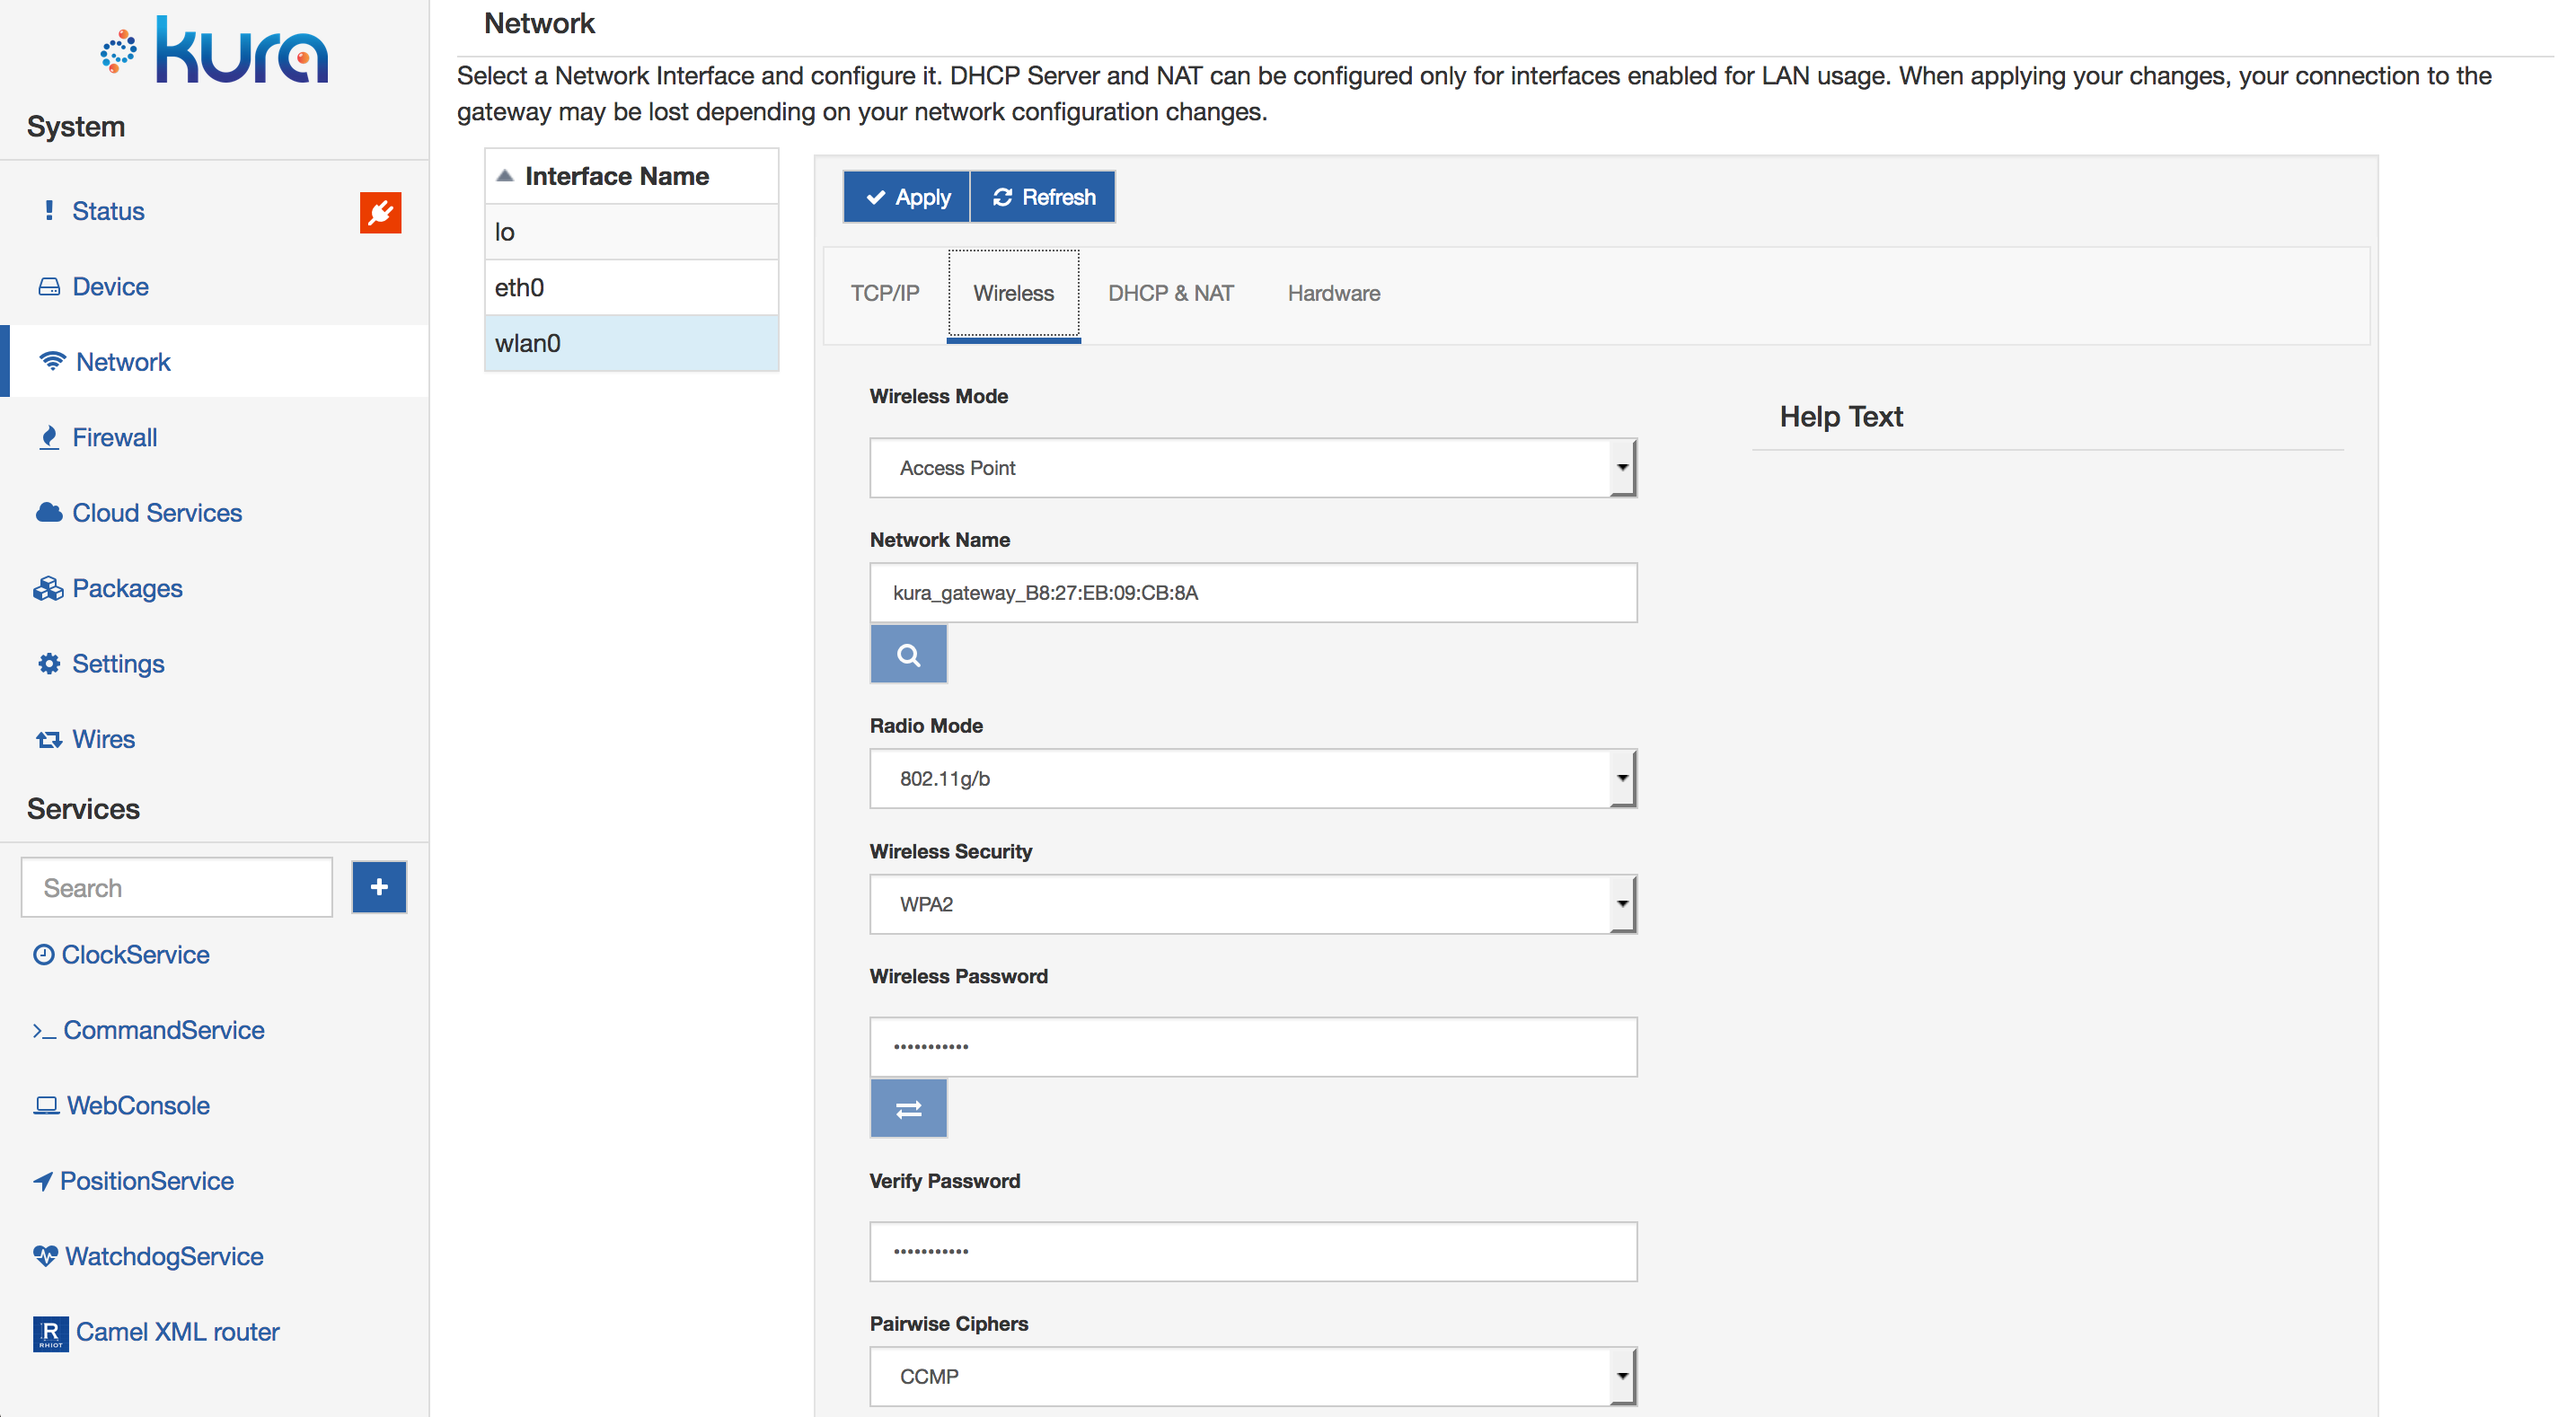
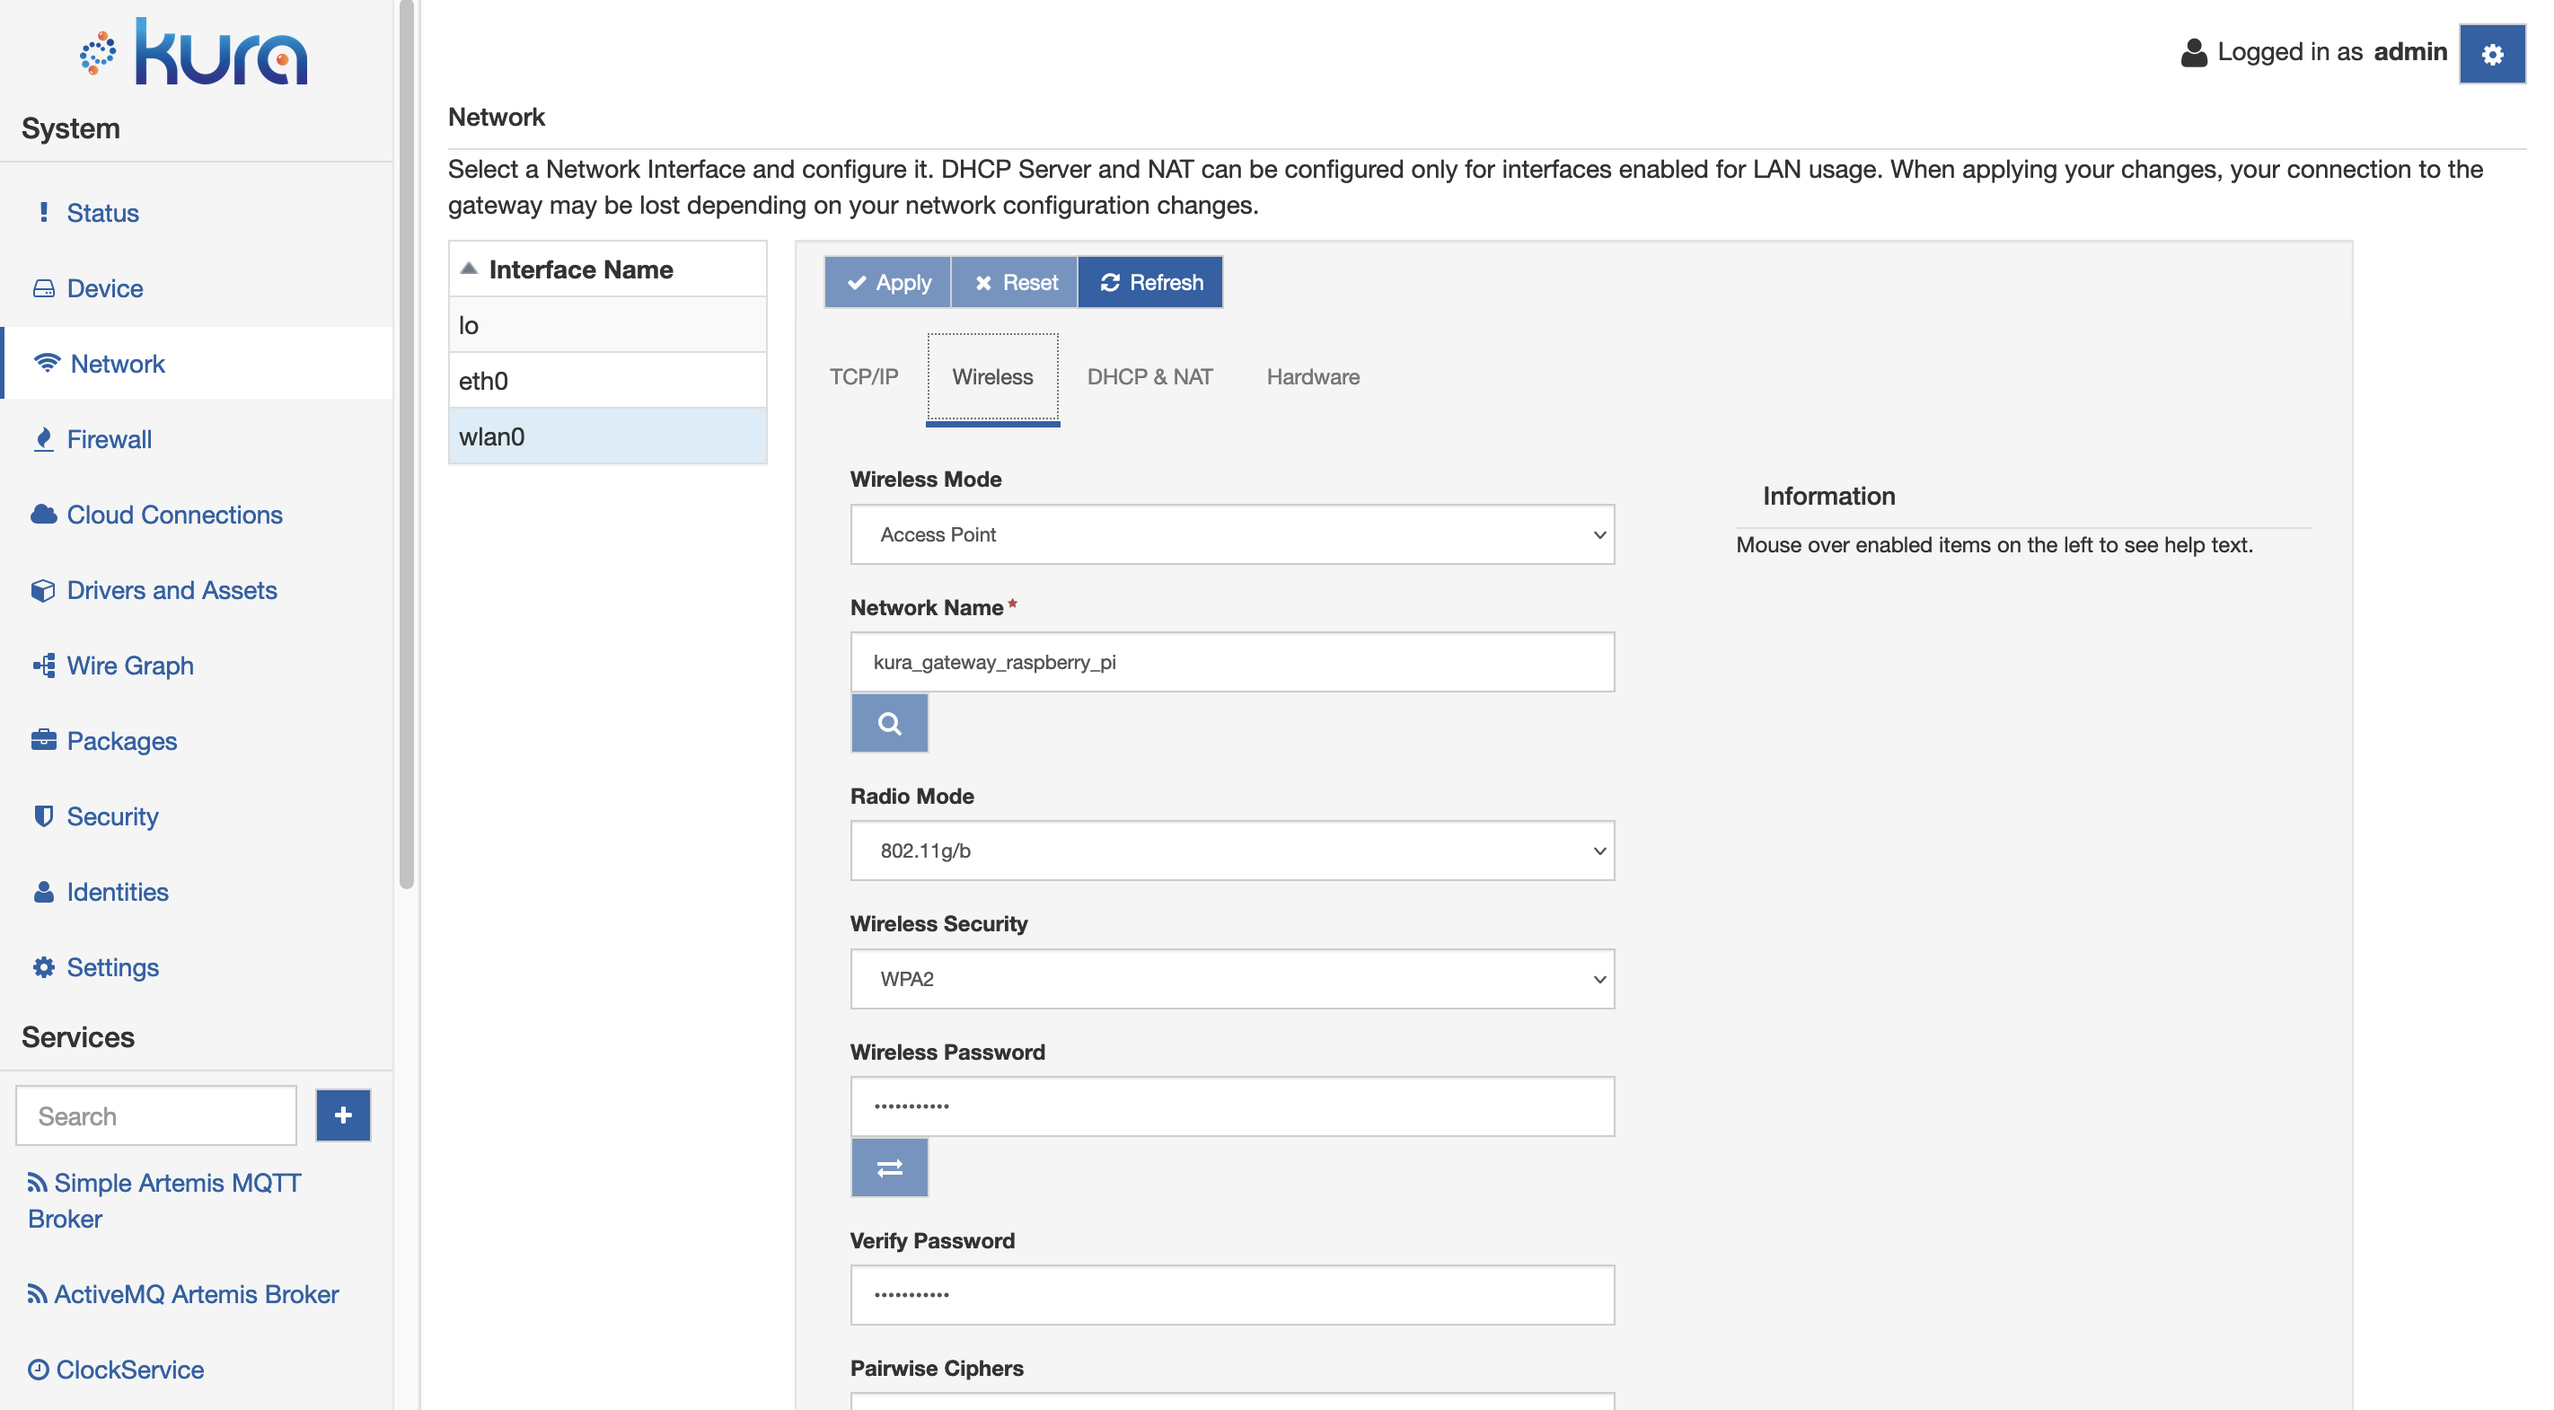
Updated network docs and images with refresh button

diff --git a/_posts/config/2017-05-04-gateway-status.md b/_posts/config/2017-05-04-gateway-status.md
@@ -6,6 +6,8 @@ categories: [config]
 
 The status of a gateway may be viewed from the Status window, which is accessed by selecting the **Status** option located in the **System** area. The Status window provides a summary of the key information regarding the status of the gateway including its IoT Cloud connection and network configuration.
 
+The values reported in the page can be reloaded using the Refresh button. This will read the current values from the system and update the page. Since the update procedure can take time, the update can be performed at most every 30 seconds.
+
 ## Cloud and Data Services
 
 This section provides a summary of the IoT Cloud connections status including the following details:
@@ -37,3 +39,5 @@ This section provides the GPS status and latest known position (if applicable) i
 - **Altitude** - altitude as reported by the _PositionService_ in meters.
 
 ![]({{ site.baseurl }}/assets/images/config/GatewayStatus.png)
+
+{% include alerts.html message='The status reported in the page may not be synchronized with the real state of the system. In this case, use the Refresh button to updated the values in the page.' %}

diff --git a/_posts/config/2017-05-05-network-configuration.md b/_posts/config/2017-05-05-network-configuration.md
@@ -8,6 +8,9 @@ To configure the gateway network interfaces using the Administration Console, se
 
 By default, the loopback (lo) interface is selected when the network interfaces are displayed. Choose the desired network interface (e.g., eth0, eth1, wlan0, ppp0) and apply the necessary configuration changes using the tabs on the right. Submit the modified configuration by clicking the **Apply** button.
 
+In case of typing errors, the **Reset** button can be used to reload the prior configuration on the screen.
+Since the network configuration shown on the screen may not be synchronized with the current state of the system, it can be updated pressing the **Refresh** button. This can be used also to force the reload of specific parameters like the RSSI or dynamic IP addresses. The refresh procedure reads all the needed parameters from the system and can take several seconds before updating.
+
 {% include alerts.html message='It is recommended that the **TCP/IP** tab is configured first since it defines how the interface is going to be used.' %}
 
 ## TCP/IP Configuration
